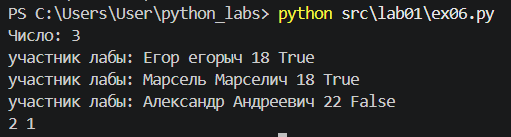
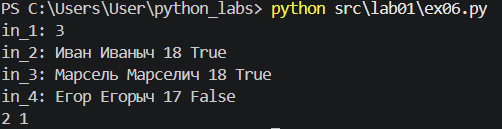
Переделал 6е задание

diff --git a/src/lab01/ex06.py b/src/lab01/ex06.py
@@ -1,9 +1,9 @@
 '''Lab 01, exercise 06'''
-n = int(input('Число: '))
+n = int(input('in_1: '))
 k = 0
 m = 0
 for x in range(n):
-    a = input('участник лабы: ')
+    a = input(f'in_{x+2}: ')
     if 'True' in a:
         k += 1
     else:
